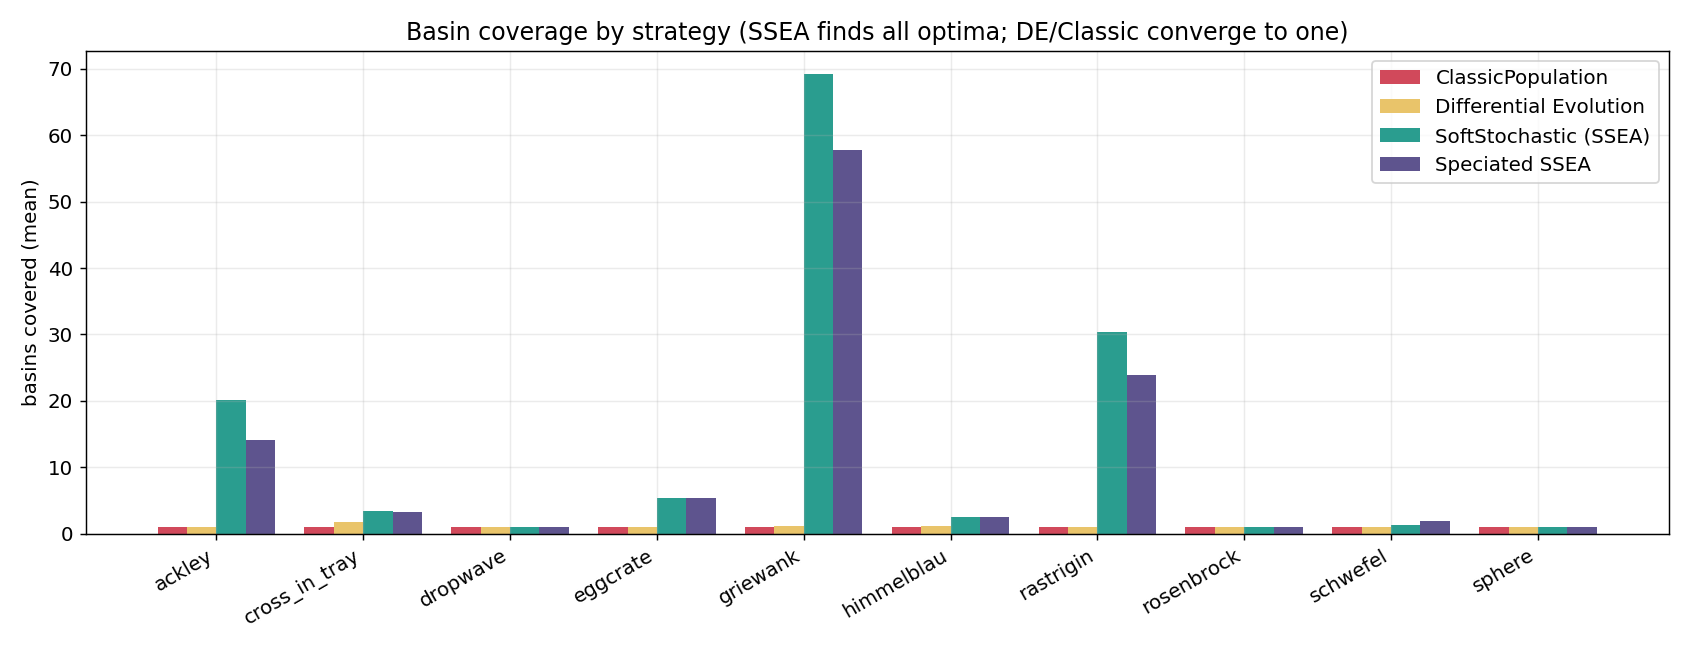
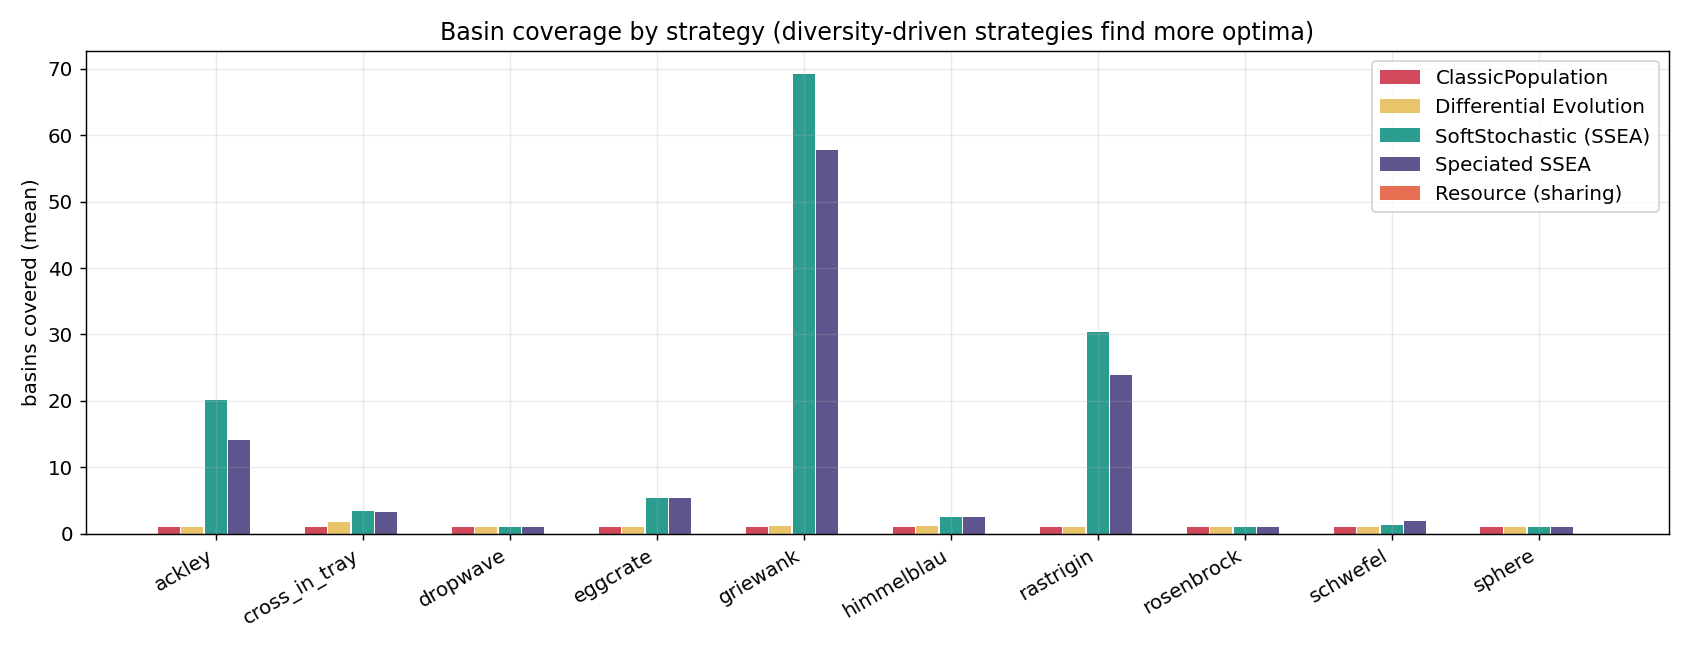
feat: charts for resource fitness sharing (3-panel scatter, occupancy, coverage)

diff --git a/scripts/plot.py b/scripts/plot.py
@@ -16,6 +16,7 @@ plt.rcParams.update({
 
 CLASSIC = "#d1495b"   # red
 SSEA = "#2a9d8f"      # teal
+RESOURCE = "#e76f51"  # orange
 
 
 def load_csv(path):
@@ -203,15 +204,17 @@ if os.path.isdir("data/bench"):
         ssea = [best_cov(p, "ssea(") for p in probs]
         de = [best_cov(p, "de") for p in probs]
         spec = [best_cov(p, "speciated") for p in probs]
+        resource = [best_cov(p, "resource") for p in probs]
         x = np.arange(len(probs))
         fig, ax = plt.subplots(figsize=(13, 5))
-        ax.bar(x - 0.30, classic, 0.2, label="ClassicPopulation", color="#d1495b")
-        ax.bar(x - 0.10, de, 0.2, label="Differential Evolution", color="#e9c46a")
-        ax.bar(x + 0.10, ssea, 0.2, label="SoftStochastic (SSEA)", color="#2a9d8f")
-        ax.bar(x + 0.30, spec, 0.2, label="Speciated SSEA", color="#5e548e")
+        ax.bar(x - 0.32, classic, 0.15, label="ClassicPopulation", color="#d1495b")
+        ax.bar(x - 0.16, de, 0.15, label="Differential Evolution", color="#e9c46a")
+        ax.bar(x + 0.00, ssea, 0.15, label="SoftStochastic (SSEA)", color="#2a9d8f")
+        ax.bar(x + 0.16, spec, 0.15, label="Speciated SSEA", color="#5e548e")
+        ax.bar(x + 0.32, resource, 0.15, label="Resource (sharing)", color="#e76f51")
         ax.set_xticks(x); ax.set_xticklabels(probs, rotation=30, ha="right")
         ax.set_ylabel("basins covered (mean)")
-        ax.set_title("Basin coverage by strategy (SSEA finds all optima; DE/Classic converge to one)")
+        ax.set_title("Basin coverage by strategy (diversity-driven strategies find more optima)")
         ax.legend()
         fig.tight_layout()
         fig.savefig("charts/bench/coverage.png")
@@ -246,20 +249,22 @@ if os.path.isdir("data/bench"):
         plt.close(fig)
     print("wrote charts/bench/*_scatter.png")
 
-    # Two-circles: plain SSEA vs Speciated SSEA final pools (dead-zone thinning).
+    # Two-circles: SSEA vs Speciated vs Resource final pools (dead-zone band marked).
     tc_s = "data/bench/two_circles_ssea.csv"
     tc_p = "data/bench/two_circles_speciated.csv"
-    if os.path.exists(tc_s) and os.path.exists(tc_p):
+    tc_r = "data/bench/two_circles_resource.csv"
+    if os.path.exists(tc_s) and os.path.exists(tc_p) and os.path.exists(tc_r):
         def load_xy(path):
             with open(path) as f:
                 rows = list(csv.reader(f))
             return np.array([[float(r[0]), float(r[1])] for r in rows[1:]]) if len(rows) > 1 else np.empty((0, 2))
-        a, b = load_xy(tc_s), load_xy(tc_p)
+        a, b, c = load_xy(tc_s), load_xy(tc_p), load_xy(tc_r)
         th = np.linspace(0, 2 * np.pi, 200)
-        fig, axes = plt.subplots(1, 2, figsize=(12, 4.6), subplot_kw={"aspect": "equal"})
+        fig, axes = plt.subplots(1, 3, figsize=(16, 4.6), subplot_kw={"aspect": "equal"})
         for ax, data, title, col in [
-            (axes[0], a, "SoftStochastic (SSEA)", "#2a9d8f"),
+            (axes[0], a, "SoftStochastic (SSEA)", SSEA),
             (axes[1], b, "Speciated SSEA", "#5e548e"),
+            (axes[2], c, "Resource (fitness sharing)", RESOURCE),
         ]:
             for cx in (-5.0, 5.0):
                 ax.plot(cx + np.cos(th), np.sin(th), color="gray", ls="--", lw=1, alpha=0.6)
@@ -269,8 +274,28 @@ if os.path.isdir("data/bench"):
                 ax.scatter(data[:, 0], data[:, 1], s=10, c=col, alpha=0.7, edgecolors="none")
                 ax.set_title(f"{title}\n{betw*100:.0f}% stranded in the dead zone")
             ax.set_xlim(-7, 7); ax.set_ylim(-3, 3)
-        fig.suptitle("Two unit circles — assortative mating thins the between-basin population", y=1.02)
+        fig.suptitle("Two unit circles — diversity mechanisms and the between-basin dead zone", y=1.02)
         fig.tight_layout()
         fig.savefig("charts/bench/two_circles.png", bbox_inches="tight")
         plt.close(fig)
         print("wrote charts/bench/two_circles.png")
+
+    # Occupancy over time: Resource settles to a stable equilibrium; SSEA is noisier.
+    occ_path = "data/bench/two_circles_occupancy.csv"
+    if os.path.exists(occ_path):
+        hdr, od = load_csv(occ_path)
+        ci = {name: i for i, name in enumerate(hdr)}
+        t = od[:, ci["trials"]]
+        fig, ax = plt.subplots(figsize=(10, 5))
+        ax.plot(t, od[:, ci["ssea_left"]], color=SSEA, lw=1.6, label="SSEA left ring")
+        ax.plot(t, od[:, ci["ssea_right"]], color=SSEA, lw=1.6, ls="--", label="SSEA right ring")
+        ax.plot(t, od[:, ci["resource_left"]], color=RESOURCE, lw=1.8, label="Resource left ring")
+        ax.plot(t, od[:, ci["resource_right"]], color=RESOURCE, lw=1.8, ls="--", label="Resource right ring")
+        ax.set_xlabel("evaluations (trials)")
+        ax.set_ylabel("pool members in each ring")
+        ax.set_title("Two-circles niche occupancy over time — Resource reaches a stable equilibrium")
+        ax.legend(fontsize=8, ncol=2)
+        fig.tight_layout()
+        fig.savefig("charts/bench/occupancy.png")
+        plt.close(fig)
+        print("wrote charts/bench/occupancy.png")
